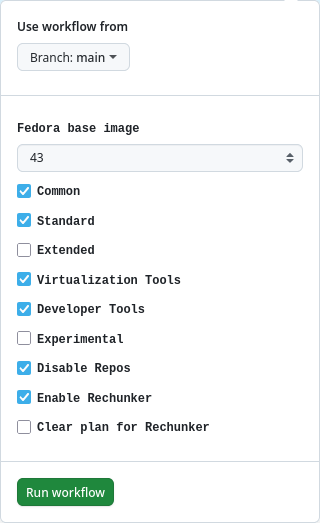
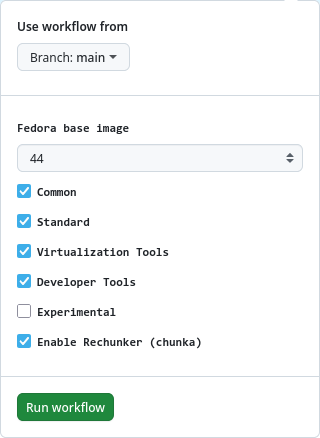
Update README.md with corrected file paths and remove disabled kernel reference

Changed region(s): [[0.0312, 0.2078, 0.9688, 0.8311], [0.0625, 0.0297, 0.4062, 0.1484], [0.0312, 0.8904, 0.375, 0.9795]]

diff --git a/README.md b/README.md
@@ -7,13 +7,12 @@ A custom bootc image built with Universal Blue template and based on Fedora Kino
 ## Features
 
 - [my](https://github.com/itotm) custom colors, icons, Plymouth theme, Plasma widgets
-- [cli tools](./build_scripts/standard/packages.sh)
+- [cli tools](./build_scripts/standard/1/packages-core.sh)
 - media codecs from [RPM Fusion](https://rpmfusion.org/)
-- [KDE apps](./build_scripts/standard/kde-apps.sh)
+- [KDE apps](./build_scripts/standard/4/kde-apps.sh)
 - [Apps](./sys_files/usr/libexec/horizon-install-flatpaks) from Flathub (removed Fedora flatpak repository)
-- Cockpit, QEmu, Distrobox, Sunshine, VSCode, Syncthing and Tailscale preinstalled
+- Cockpit, QEmu, Distrobox, VSCode, Syncthing and Tailscale preinstalled
 - Italian locales and various dictionaries
-- [CachyOS kernel](https://copr.fedorainfracloud.org/coprs/itotm/cachyos-kernel-znver4/) optimized for AMD Zen 4/5 (disabled)
 - scheduled to update weekly
 - designed to be modular (fork the repo to try!)
 
